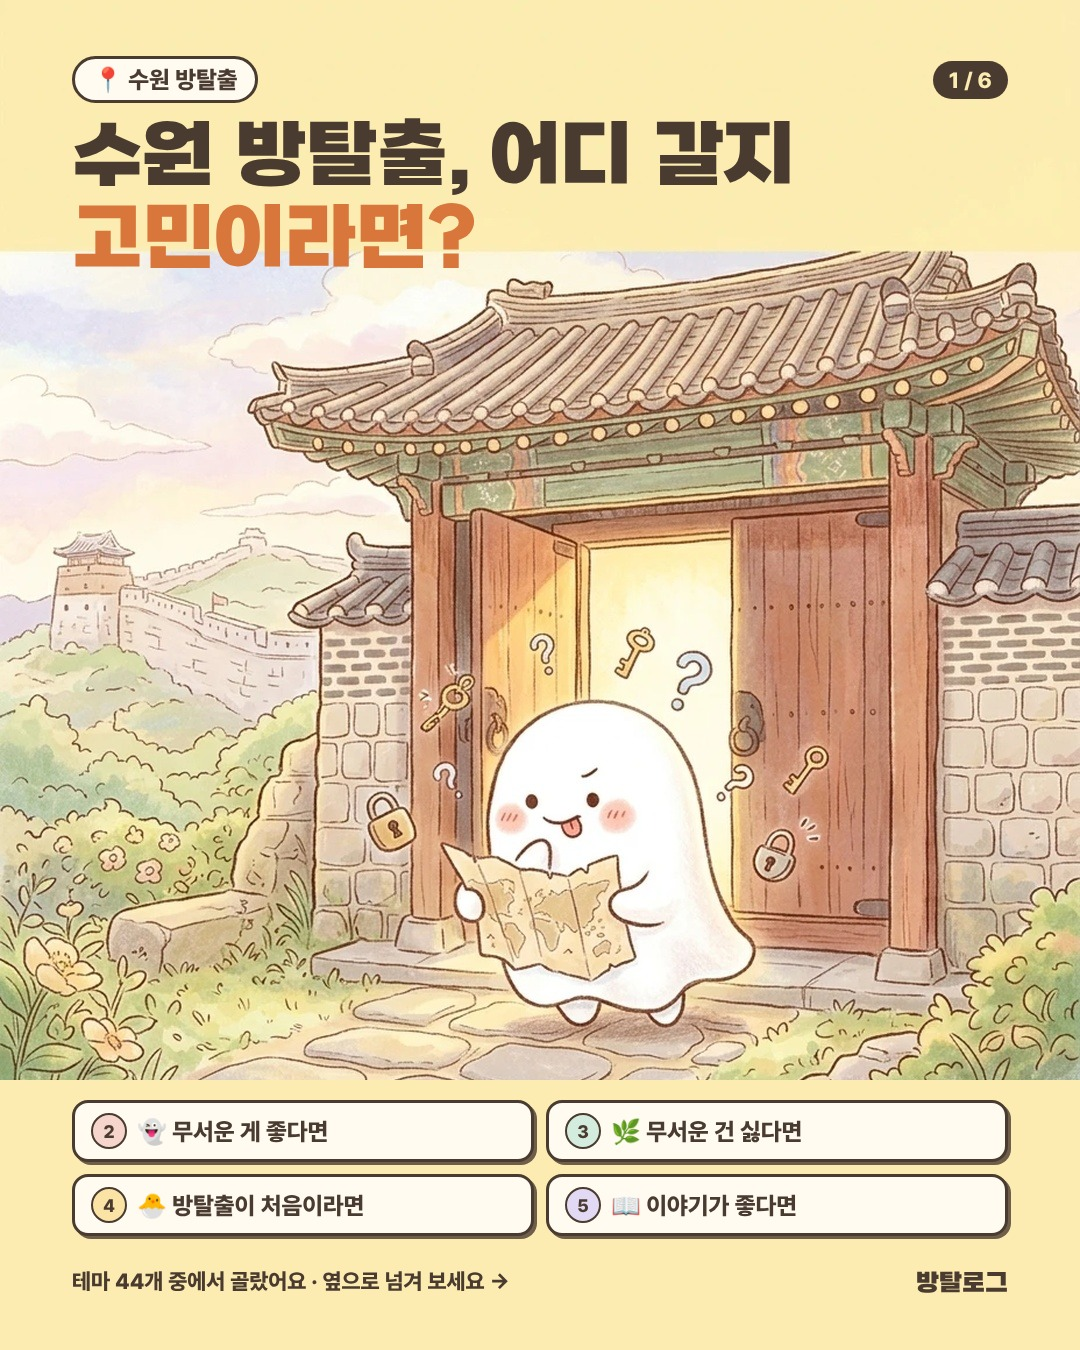
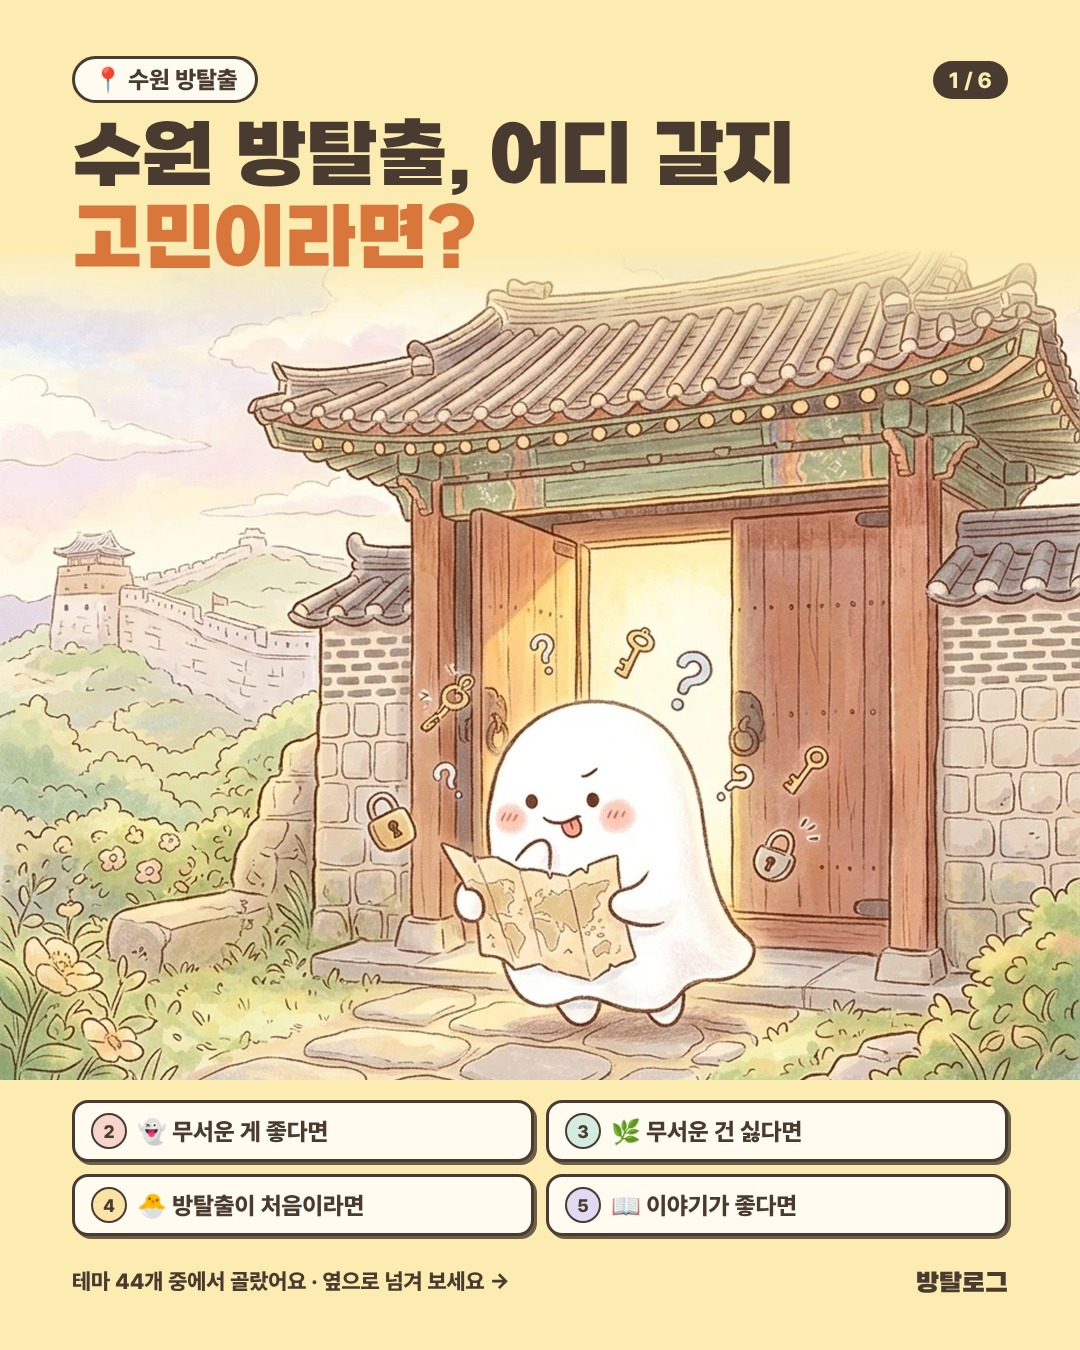
수원 모음 6장 다듬기: 띠 경계 부드럽게, 공포 장에 줄거리 첫 문장, 카드·안내 겹침 수정, '로그인 없이' 문구 제거
Claude-Session: https://claude.ai/code/session_01RCovqCTjag3WJkZFny7UQu

Changed region(s): [[0.0, 0.1867, 1.0, 0.2489]]

diff --git a/tools/ig/templates/sw2.html b/tools/ig/templates/sw2.html
@@ -7,22 +7,26 @@ h1{font-family:A;font-weight:400;margin:0}
 .chip{display:inline-flex;align-items:center;gap:8px;border-radius:999px;font-weight:800}
 
 body{background:#171127 url(../assets/sw-fear.jpg) no-repeat 0 -110px/1080px 1341px;color:#F3E9F7}
-.fill{position:absolute;left:0;right:0;top:1088px;bottom:0;background:#161127}
-</style></head><body><div class="fill"></div>
+.fill{position:absolute;left:0;right:0;top:1000px;bottom:0;background:#161127}
+</style></head><body><div style="position:absolute;left:0;right:0;top:0;height:339px;background:linear-gradient(to bottom,#171127 0,#171127 243px,rgba(23,17,39,0) 100%)"></div><div class="fill"></div>
 <div style="position:absolute;left:72px;right:72px;top:56px;display:flex;justify-content:space-between;align-items:center">
  <span class="chip" style="background:#E2603F;color:#fff;border:3px solid #F3E9F7;padding:6px 18px;font-size:24px">👻 공포 MAX</span>
  <span class="chip" style="background:#F3E9F7;color:#171127;padding:6px 16px;font-size:22px">2 / 6</span></div>
 <h1 style="position:absolute;left:72px;top:122px;font-size:84px;line-height:1.1;color:#F3E9F7">무서운 게 <span style="color:#FF6B57">좋다면</span></h1>
-<div style="position:absolute;left:74px;top:222px;font-weight:500;font-size:24px;color:#B9AECB">수원에서 제일 매운맛 · 공포도 4 이상만 골랐어요</div>
-<div style="position:absolute;left:60px;right:60px;top:1040px;display:grid;grid-template-columns:1fr 1fr;gap:14px"><div style="background:rgba(255,248,250,.96);border:3px solid #1E1630;border-radius:18px;padding:14px 18px;box-shadow:4px 4px 0 #E2603F">
-<div style="font-family:A;font-size:28px;color:#1E1630;white-space:nowrap;overflow:hidden;text-overflow:ellipsis">복도끝</div>
-<div style="display:flex;justify-content:space-between;align-items:center;margin-top:6px"><span style="font-weight:500;font-size:19px;color:#6A5C78">상상의문 수원점</span><span style="font-weight:800;font-size:18px;color:#fff;background:#E2603F;border-radius:999px;padding:3px 12px">공포 4/5 · 매운맛</span></div></div><div style="background:rgba(255,248,250,.96);border:3px solid #1E1630;border-radius:18px;padding:14px 18px;box-shadow:4px 4px 0 #E2603F">
-<div style="font-family:A;font-size:28px;color:#1E1630;white-space:nowrap;overflow:hidden;text-overflow:ellipsis">성지기숙학원 : 특수교정반</div>
-<div style="display:flex;justify-content:space-between;align-items:center;margin-top:6px"><span style="font-weight:500;font-size:19px;color:#6A5C78">상상의문 수원 2호점</span><span style="font-weight:800;font-size:18px;color:#fff;background:#E2603F;border-radius:999px;padding:3px 12px">공포 4/5 · 매운맛</span></div></div><div style="background:rgba(255,248,250,.96);border:3px solid #1E1630;border-radius:18px;padding:14px 18px;box-shadow:4px 4px 0 #E2603F">
-<div style="font-family:A;font-size:28px;color:#1E1630;white-space:nowrap;overflow:hidden;text-overflow:ellipsis">영안실</div>
-<div style="display:flex;justify-content:space-between;align-items:center;margin-top:6px"><span style="font-weight:500;font-size:19px;color:#6A5C78">상상의문 수원점</span><span style="font-weight:800;font-size:18px;color:#fff;background:#E2603F;border-radius:999px;padding:3px 12px">공포 4/5 · 매운맛</span></div></div><div style="background:rgba(255,248,250,.96);border:3px solid #1E1630;border-radius:18px;padding:14px 18px;box-shadow:4px 4px 0 #E2603F">
-<div style="font-family:A;font-size:28px;color:#1E1630;white-space:nowrap;overflow:hidden;text-overflow:ellipsis">춘화각 : 피할 수 없는 저주</div>
-<div style="display:flex;justify-content:space-between;align-items:center;margin-top:6px"><span style="font-weight:500;font-size:19px;color:#6A5C78">상상의문 수원 2호점</span><span style="font-weight:800;font-size:18px;color:#fff;background:#E2603F;border-radius:999px;padding:3px 12px">공포 4/5 · 매운맛</span></div></div></div>
+<div style="position:absolute;left:74px;top:222px;font-weight:500;font-size:24px;color:#B9AECB">수원에서 제일 매운맛 · 줄거리 첫 문장만 먼저 들려드려요</div>
+<div style="position:absolute;left:60px;right:60px;top:948px;display:grid;grid-template-columns:1fr 1fr;gap:14px"><div style="min-width:0;background:rgba(255,248,250,.97);border:3px solid #1E1630;border-radius:18px;padding:13px 18px;box-shadow:4px 4px 0 #E2603F">
+<div style="font-family:A;font-size:27px;color:#1E1630;white-space:nowrap;overflow:hidden;text-overflow:ellipsis">복도끝</div>
+<div style="font-weight:500;font-size:18px;color:#3A2E4A;line-height:1.4;margin-top:5px;display:-webkit-box;-webkit-line-clamp:2;-webkit-box-orient:vertical;overflow:hidden;height:50px;word-break:keep-all">“평소처럼 303호로 올라가는 엘리베이터. 그런데 뒤에서 들려오는 비명소리..”</div>
+<div style="display:flex;justify-content:space-between;align-items:center;margin-top:6px"><span style="font-weight:500;font-size:18px;color:#6A5C78">상상의문 수원점</span><span style="font-weight:800;font-size:16px;color:#fff;background:#E2603F;border-radius:999px;padding:2px 11px">매운맛 4/5</span></div></div><div style="min-width:0;background:rgba(255,248,250,.97);border:3px solid #1E1630;border-radius:18px;padding:13px 18px;box-shadow:4px 4px 0 #E2603F">
+<div style="font-family:A;font-size:27px;color:#1E1630;white-space:nowrap;overflow:hidden;text-overflow:ellipsis">성지기숙학원 : 특수교정반</div>
+<div style="font-weight:500;font-size:18px;color:#3A2E4A;line-height:1.4;margin-top:5px;display:-webkit-box;-webkit-line-clamp:2;-webkit-box-orient:vertical;overflow:hidden;height:50px;word-break:keep-all">“같은 기척, 같은 냄새, 같은 어둠. 나는 또다시 이 기숙학원에서 깨어났다.”</div>
+<div style="display:flex;justify-content:space-between;align-items:center;margin-top:6px"><span style="font-weight:500;font-size:18px;color:#6A5C78">상상의문 수원 2호점</span><span style="font-weight:800;font-size:16px;color:#fff;background:#E2603F;border-radius:999px;padding:2px 11px">매운맛 4/5</span></div></div><div style="min-width:0;background:rgba(255,248,250,.97);border:3px solid #1E1630;border-radius:18px;padding:13px 18px;box-shadow:4px 4px 0 #E2603F">
+<div style="font-family:A;font-size:27px;color:#1E1630;white-space:nowrap;overflow:hidden;text-overflow:ellipsis">영안실</div>
+<div style="font-weight:500;font-size:18px;color:#3A2E4A;line-height:1.4;margin-top:5px;display:-webkit-box;-webkit-line-clamp:2;-webkit-box-orient:vertical;overflow:hidden;height:50px;word-break:keep-all">“안녕하십니까, 고객님의 마지막 여정을 함께하는 인계병원 영안실입니다.”</div>
+<div style="display:flex;justify-content:space-between;align-items:center;margin-top:6px"><span style="font-weight:500;font-size:18px;color:#6A5C78">상상의문 수원점</span><span style="font-weight:800;font-size:16px;color:#fff;background:#E2603F;border-radius:999px;padding:2px 11px">매운맛 4/5</span></div></div><div style="min-width:0;background:rgba(255,248,250,.97);border:3px solid #1E1630;border-radius:18px;padding:13px 18px;box-shadow:4px 4px 0 #E2603F">
+<div style="font-family:A;font-size:27px;color:#1E1630;white-space:nowrap;overflow:hidden;text-overflow:ellipsis">춘화각 : 피할 수 없는 저주</div>
+<div style="font-weight:500;font-size:18px;color:#3A2E4A;line-height:1.4;margin-top:5px;display:-webkit-box;-webkit-line-clamp:2;-webkit-box-orient:vertical;overflow:hidden;height:50px;word-break:keep-all">“자네도 장원 급제를 위해서 이 춘화각을 찾았는가?”</div>
+<div style="display:flex;justify-content:space-between;align-items:center;margin-top:6px"><span style="font-weight:500;font-size:18px;color:#6A5C78">상상의문 수원 2호점</span><span style="font-weight:800;font-size:16px;color:#fff;background:#E2603F;border-radius:999px;padding:2px 11px">매운맛 4/5</span></div></div></div>
 <div style="position:absolute;left:72px;right:72px;top:1290px;display:flex;justify-content:space-between;align-items:baseline;font-size:21px;color:#B9AECB">
  <span style="font-weight:800">정보는 매장 공식 소개 기준 · 줄거리·후기 → 프로필 링크</span><span style="font-family:A;font-size:24px;color:#F3E9F7">방탈로그</span></div>
 </body></html>

diff --git a/tools/ig/templates/sw5.html b/tools/ig/templates/sw5.html
@@ -14,13 +14,13 @@ h1{font-family:A;font-weight:400;margin:0}
 :root{--acc:#7A68C2;--tint:#F0ECFA}
 body{background:#E7DCEC url(../assets/sw-story.jpg) no-repeat 0 -80px/1080px 1341px;color:#4A3B30}
 </style></head><body>
-<div style="position:absolute;left:0;right:0;top:1025px;bottom:0;background:#E7DCEC"></div>
+<div style="position:absolute;left:0;right:0;top:1010px;bottom:0;background:#E7DCEC"></div>
 <div style="position:absolute;left:72px;right:72px;top:56px;display:flex;justify-content:space-between;align-items:center">
  <span class="chip" style="background:#7A68C2;color:#fff;border:3px solid #4A3B30;padding:6px 18px;font-size:24px">📖 스토리 맛집</span>
  <span class="chip" style="background:#4A3B30;color:#E7DCEC;padding:6px 16px;font-size:22px">5 / 6</span></div>
 <h1 style="position:absolute;left:72px;top:122px;font-size:84px;line-height:1.1">이야기가 <span style="color:#7A68C2">좋다면</span></h1>
 <div style="position:absolute;left:74px;top:224px;font-weight:500;font-size:24px;color:#6E5A48">추리 · 감성 · 판타지 · 줄거리 첫 문장 미리보기</div>
-<div style="position:absolute;left:60px;right:60px;top:1010px;display:grid;grid-template-columns:1fr 1fr;gap:14px"><div class="card"><div class="nm">무제</div><div class="q">“의뢰를 하나 맡기려 합니다. 좀 큰 건이에요. 미술계의 거장…”</div><div style="display:flex;justify-content:space-between;align-items:center;gap:8px;margin-top:6px"><div class="cf">셜록홈즈 수원인계점</div><span class="tg">추리</span></div></div><div class="card"><div class="nm">HINDSIGHT</div><div class="q">“여보세요, 도희 맞지? 거의 2년 만이네. 그날 뒤로…”</div><div style="display:flex;justify-content:space-between;align-items:center;gap:8px;margin-top:6px"><div class="cf">상상의문 수원 2호점</div><span class="tg">감성</span></div></div><div class="card"><div class="nm">유작</div><div class="q">“한 작가가 죽었다. 그리고 아무에게도 공개하지 않았던 마지막…”</div><div style="display:flex;justify-content:space-between;align-items:center;gap:8px;margin-top:6px"><div class="cf">셜록홈즈 수원역점</div><span class="tg">감성</span></div></div><div class="card"><div class="nm">고서연전</div><div class="q">“수많은 전시를 성공으로 이끈 유명 도슨트, 당신. 전…”</div><div style="display:flex;justify-content:space-between;align-items:center;gap:8px;margin-top:6px"><div class="cf">셜록홈즈 수원역2호점</div><span class="tg">추리</span></div></div></div>
+<div style="position:absolute;left:60px;right:60px;top:968px;display:grid;grid-template-columns:1fr 1fr;gap:14px"><div class="card"><div class="nm">무제</div><div class="q">“의뢰를 하나 맡기려 합니다. 좀 큰 건이에요. 미술계의 거장…”</div><div style="display:flex;justify-content:space-between;align-items:center;gap:8px;margin-top:6px"><div class="cf">셜록홈즈 수원인계점</div><span class="tg">추리</span></div></div><div class="card"><div class="nm">HINDSIGHT</div><div class="q">“여보세요, 도희 맞지? 거의 2년 만이네. 그날 뒤로…”</div><div style="display:flex;justify-content:space-between;align-items:center;gap:8px;margin-top:6px"><div class="cf">상상의문 수원 2호점</div><span class="tg">감성</span></div></div><div class="card"><div class="nm">유작</div><div class="q">“한 작가가 죽었다. 그리고 아무에게도 공개하지 않았던 마지막…”</div><div style="display:flex;justify-content:space-between;align-items:center;gap:8px;margin-top:6px"><div class="cf">셜록홈즈 수원역점</div><span class="tg">감성</span></div></div><div class="card"><div class="nm">고서연전</div><div class="q">“수많은 전시를 성공으로 이끈 유명 도슨트, 당신. 전…”</div><div style="display:flex;justify-content:space-between;align-items:center;gap:8px;margin-top:6px"><div class="cf">셜록홈즈 수원역2호점</div><span class="tg">추리</span></div></div></div>
 <div style="position:absolute;left:72px;right:72px;top:1290px;display:flex;justify-content:space-between;align-items:baseline;font-size:21px;color:#6E5A48">
  <span style="font-weight:800">정보는 매장 공식 소개 기준 · 줄거리·후기 → 프로필 링크</span><span style="font-family:A;font-size:24px;color:#4A3B30">방탈로그</span></div>
 </body></html>

diff --git a/tools/ig/templates/sw1.html b/tools/ig/templates/sw1.html
@@ -10,7 +10,7 @@ body{background:#FCECB2 url(../assets/sw-cover.jpg) no-repeat 0 -80px/1080px 134
 .fill{position:absolute;left:0;right:0;top:1080px;bottom:0;background:#FCECB2}
 .toc{display:flex;align-items:center;gap:10px;background:#FFFBF0;border:3px solid #4A3B30;border-radius:16px;padding:10px 16px;font-weight:800;font-size:24px;box-shadow:3px 3px 0 rgba(74,59,48,.8)}
 .toc i{font-style:normal;display:flex;align-items:center;justify-content:center;width:32px;height:32px;border-radius:50%;border:2.5px solid #4A3B30;font-size:18px}
-</style></head><body><div class="fill"></div>
+</style></head><body><div style="position:absolute;left:0;right:0;top:0;height:341px;background:linear-gradient(to bottom,#FCECB2 0,#FCECB2 245px,rgba(252,236,178,0) 100%)"></div><div class="fill"></div>
 <div style="position:absolute;left:72px;right:72px;top:56px;display:flex;justify-content:space-between;align-items:center">
  <span class="chip" style="background:#FFFBF0;border:3px solid #4A3B30;padding:6px 18px;font-size:24px">📍 수원 방탈출</span>
  <span class="chip" style="background:#4A3B30;color:#FCECB2;padding:6px 16px;font-size:22px">1 / 6</span></div>

diff --git a/tools/ig/templates/sw6.html b/tools/ig/templates/sw6.html
@@ -27,5 +27,5 @@ body{background:#FCEDC6 url(../assets/sw-end.jpg) no-repeat 0 -60px/1080px 1341p
  <span class="chip" style="background:#FFFBF0;border:3px solid #4A3B30;padding:8px 16px;font-size:23px">🎯 취향 추천</span></div>
 <div style="display:flex"><span class="chip" style="background:#E2603F;color:#fff;border:3px solid #4A3B30;padding:12px 26px;font-size:30px;box-shadow:5px 5px 0 #4A3B30">프로필 링크 → bangtallog.com</span></div></div>
 <div style="position:absolute;left:72px;right:72px;top:1290px;display:flex;justify-content:space-between;align-items:baseline;font-size:21px;color:#6E5A48">
- <span style="font-weight:800">무료 · 로그인 없이 시작</span><span style="font-family:A;font-size:24px;color:#4A3B30">방탈로그</span></div>
+ <span style="font-weight:800">먼저 써 보고 10초 가입</span><span style="font-family:A;font-size:24px;color:#4A3B30">방탈로그</span></div>
 </body></html>

diff --git a/tools/ig/templates/sw3.html b/tools/ig/templates/sw3.html
@@ -13,7 +13,7 @@ h1{font-family:A;font-weight:400;margin:0}
 
 :root{--acc:#4E9A72;--tint:#E8F5EE}
 body{background:#BDE8D2 url(../assets/sw-calm.jpg) no-repeat 0 -90px/1080px 1341px;color:#4A3B30}
-</style></head><body>
+</style></head><body><div style="position:absolute;left:0;right:0;top:0;height:357px;background:linear-gradient(to bottom,#BDE8D2 0,#BDE8D2 261px,rgba(189,232,210,0) 100%)"></div>
 <div style="position:absolute;left:0;right:0;top:1080px;bottom:0;background:#BDE8D2"></div>
 <div style="position:absolute;left:72px;right:72px;top:56px;display:flex;justify-content:space-between;align-items:center">
  <span class="chip" style="background:#4E9A72;color:#fff;border:3px solid #4A3B30;padding:6px 18px;font-size:24px">🌿 무섭지 않아요</span>

diff --git a/tools/ig/templates/sw4.html b/tools/ig/templates/sw4.html
@@ -13,7 +13,7 @@ h1{font-family:A;font-weight:400;margin:0}
 
 :root{--acc:#D48A1C;--tint:#FDF0CF}
 body{background:#FCEDAA url(../assets/sw-first.jpg) no-repeat 0 -100px/1080px 1341px;color:#4A3B30}
-</style></head><body>
+</style></head><body><div style="position:absolute;left:0;right:0;top:0;height:320px;background:linear-gradient(to bottom,#FCEDAA 0,#FCEDAA 224px,rgba(252,237,170,0) 100%)"></div>
 <div style="position:absolute;left:0;right:0;top:1080px;bottom:0;background:#FCEDAA"></div>
 <div style="position:absolute;left:72px;right:72px;top:56px;display:flex;justify-content:space-between;align-items:center">
  <span class="chip" style="background:#D48A1C;color:#fff;border:3px solid #4A3B30;padding:6px 18px;font-size:24px">🐣 입문 추천</span>
